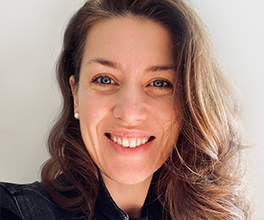
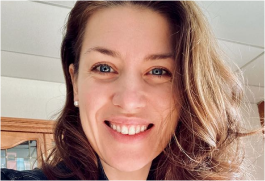
smaller photo of Valentyna, donate-monthly page

diff --git a/app/donate-monthly/page.jsx b/app/donate-monthly/page.jsx
@@ -1,0 +1,66 @@
+"use client";
+import { useState, useEffect } from "react";
+
+import Header from "@/sections/Header";
+import { throttle } from "@/utils";
+import Copyright from "@/components/Copyright";
+
+import { LanguageContext } from "@/contexts/LanguageContext";
+import { ScreenModeAndSizeContext } from "@/contexts/ScreenModeAndSizeContext";
+
+import SocialMediaLinks from "@/components/SocialMediaLinks";
+import DonorBox from "@/sections/Donorbox";
+export default function Donate() {
+  const [lang, setLang] = useState("eng");
+  const [windowSizes, setWindowSizes] = useState({ width: null, height: null });
+  const getSize = () => {
+    const win = window;
+    const doc = document;
+    const docElem = doc.documentElement;
+    const body = doc.getElementsByTagName("body")[0];
+    const windowWidth =
+      win.innerWidth || docElem.clientWidth || body.clientWidth;
+    const windowHeight =
+      win.innerHeight || docElem.clientHeight || body.clientHeight;
+    const mobile = false;
+    const screenModeClass = mobile ? "mobile" : "desktop";
+
+    setWindowSizes({
+      width: windowWidth,
+      height: windowHeight,
+      mobile: windowWidth <= 480,
+      tablet: windowWidth <= 1180,
+      desktop: windowWidth >= 1181,
+      tabletLarge: windowWidth <= 1366,
+      desktopSmall: windowWidth <= 1920,
+      screenModeClass,
+    });
+  };
+
+  const throttledgetSize = throttle(getSize, 150);
+
+  useEffect(() => {
+    getSize();
+    window.addEventListener("resize", throttledgetSize);
+    window.scrollTo(0, 0);
+    return () => {
+      window.removeEventListener("resize", throttledgetSize);
+    };
+  }, []);
+
+  return (
+    <LanguageContext.Provider value={{ lang: lang, changeLang: setLang }}>
+      <ScreenModeAndSizeContext.Provider value={windowSizes}>
+        <Header notMainPage />
+        {/* {windowSizes.desktop && <CompanyData black />} */}
+        <SocialMediaLinks className={!windowSizes.desktop && "hidden"} />
+        <main>
+          <DonorBox monthly />
+        </main>
+        <footer>
+          <Copyright />
+        </footer>
+      </ScreenModeAndSizeContext.Provider>
+    </LanguageContext.Provider>
+  );
+}

diff --git a/sections/Donorbox/index.jsx b/sections/Donorbox/index.jsx
@@ -43,21 +43,33 @@ const CompanyData = ({ className = "" }) => {
   );
 };
 
-export default function DonorBox({}) {
+export default function DonorBox({ monthly = false }) {
   const { lang } = useContext(LanguageContext);
-  const { tablet, tabletLarge, mobile } = useContext(ScreenModeAndSizeContext);
+  const { mobile } = useContext(ScreenModeAndSizeContext);
   return (
     <section className={`${style.section}`} id="donorBox">
       {mobile
         ? icons.letsGiveHopeLogoMobile(`${style.logo} svgTextBlock`)
         : icons.letsGiveHopeLogo(`${style.logo} svgTextBlock`)}
       <h1 className={style.title}>{texts.donate.title[lang]}</h1>
+      {monthly ? (
+        <h2 className={`${style.title} ${style.monthlyPayment}`}>
+          {texts.donate.monthlyPayment[lang]}
+        </h2>
+      ) : (
+        ""
+      )}
+
       <div className={style.flexContainer}>
         <CompanyData />
 
         <Script src="https://donorbox.org/widget.js" paypalExpress="false" />
         <iframe
-          src="https://donorbox.org/embed/website-donation-64"
+          src={
+            monthly
+              ? "https://donorbox.org/embed/website-donation-64-2"
+              : "https://donorbox.org/embed/website-donation-64"
+          }
           name="donorbox"
           allowpaymentrequest="allowpaymentrequest"
           seamless="seamless"

diff --git a/texts&svg/index.js b/texts&svg/index.js
@@ -501,6 +501,9 @@ const donate = {
   title: {
     eng: "All charitable contributions are tax-deductible.",
   },
+  monthlyPayment: {
+    eng: "Please note that monthly payments are the default option.",
+  },
   organizationData: {
     sendChecks: {
       eng: "Please send checks to:",

diff --git a/sections/Donorbox/donorbox.module.css b/sections/Donorbox/donorbox.module.css
@@ -26,6 +26,10 @@
   margin: 0 auto;
   margin-top: 64px;
   width: fit-content;
+  &.monthlyPayment {
+    margin-top: 0;
+    color: var(--pink);
+  }
 }
 
 .block {
